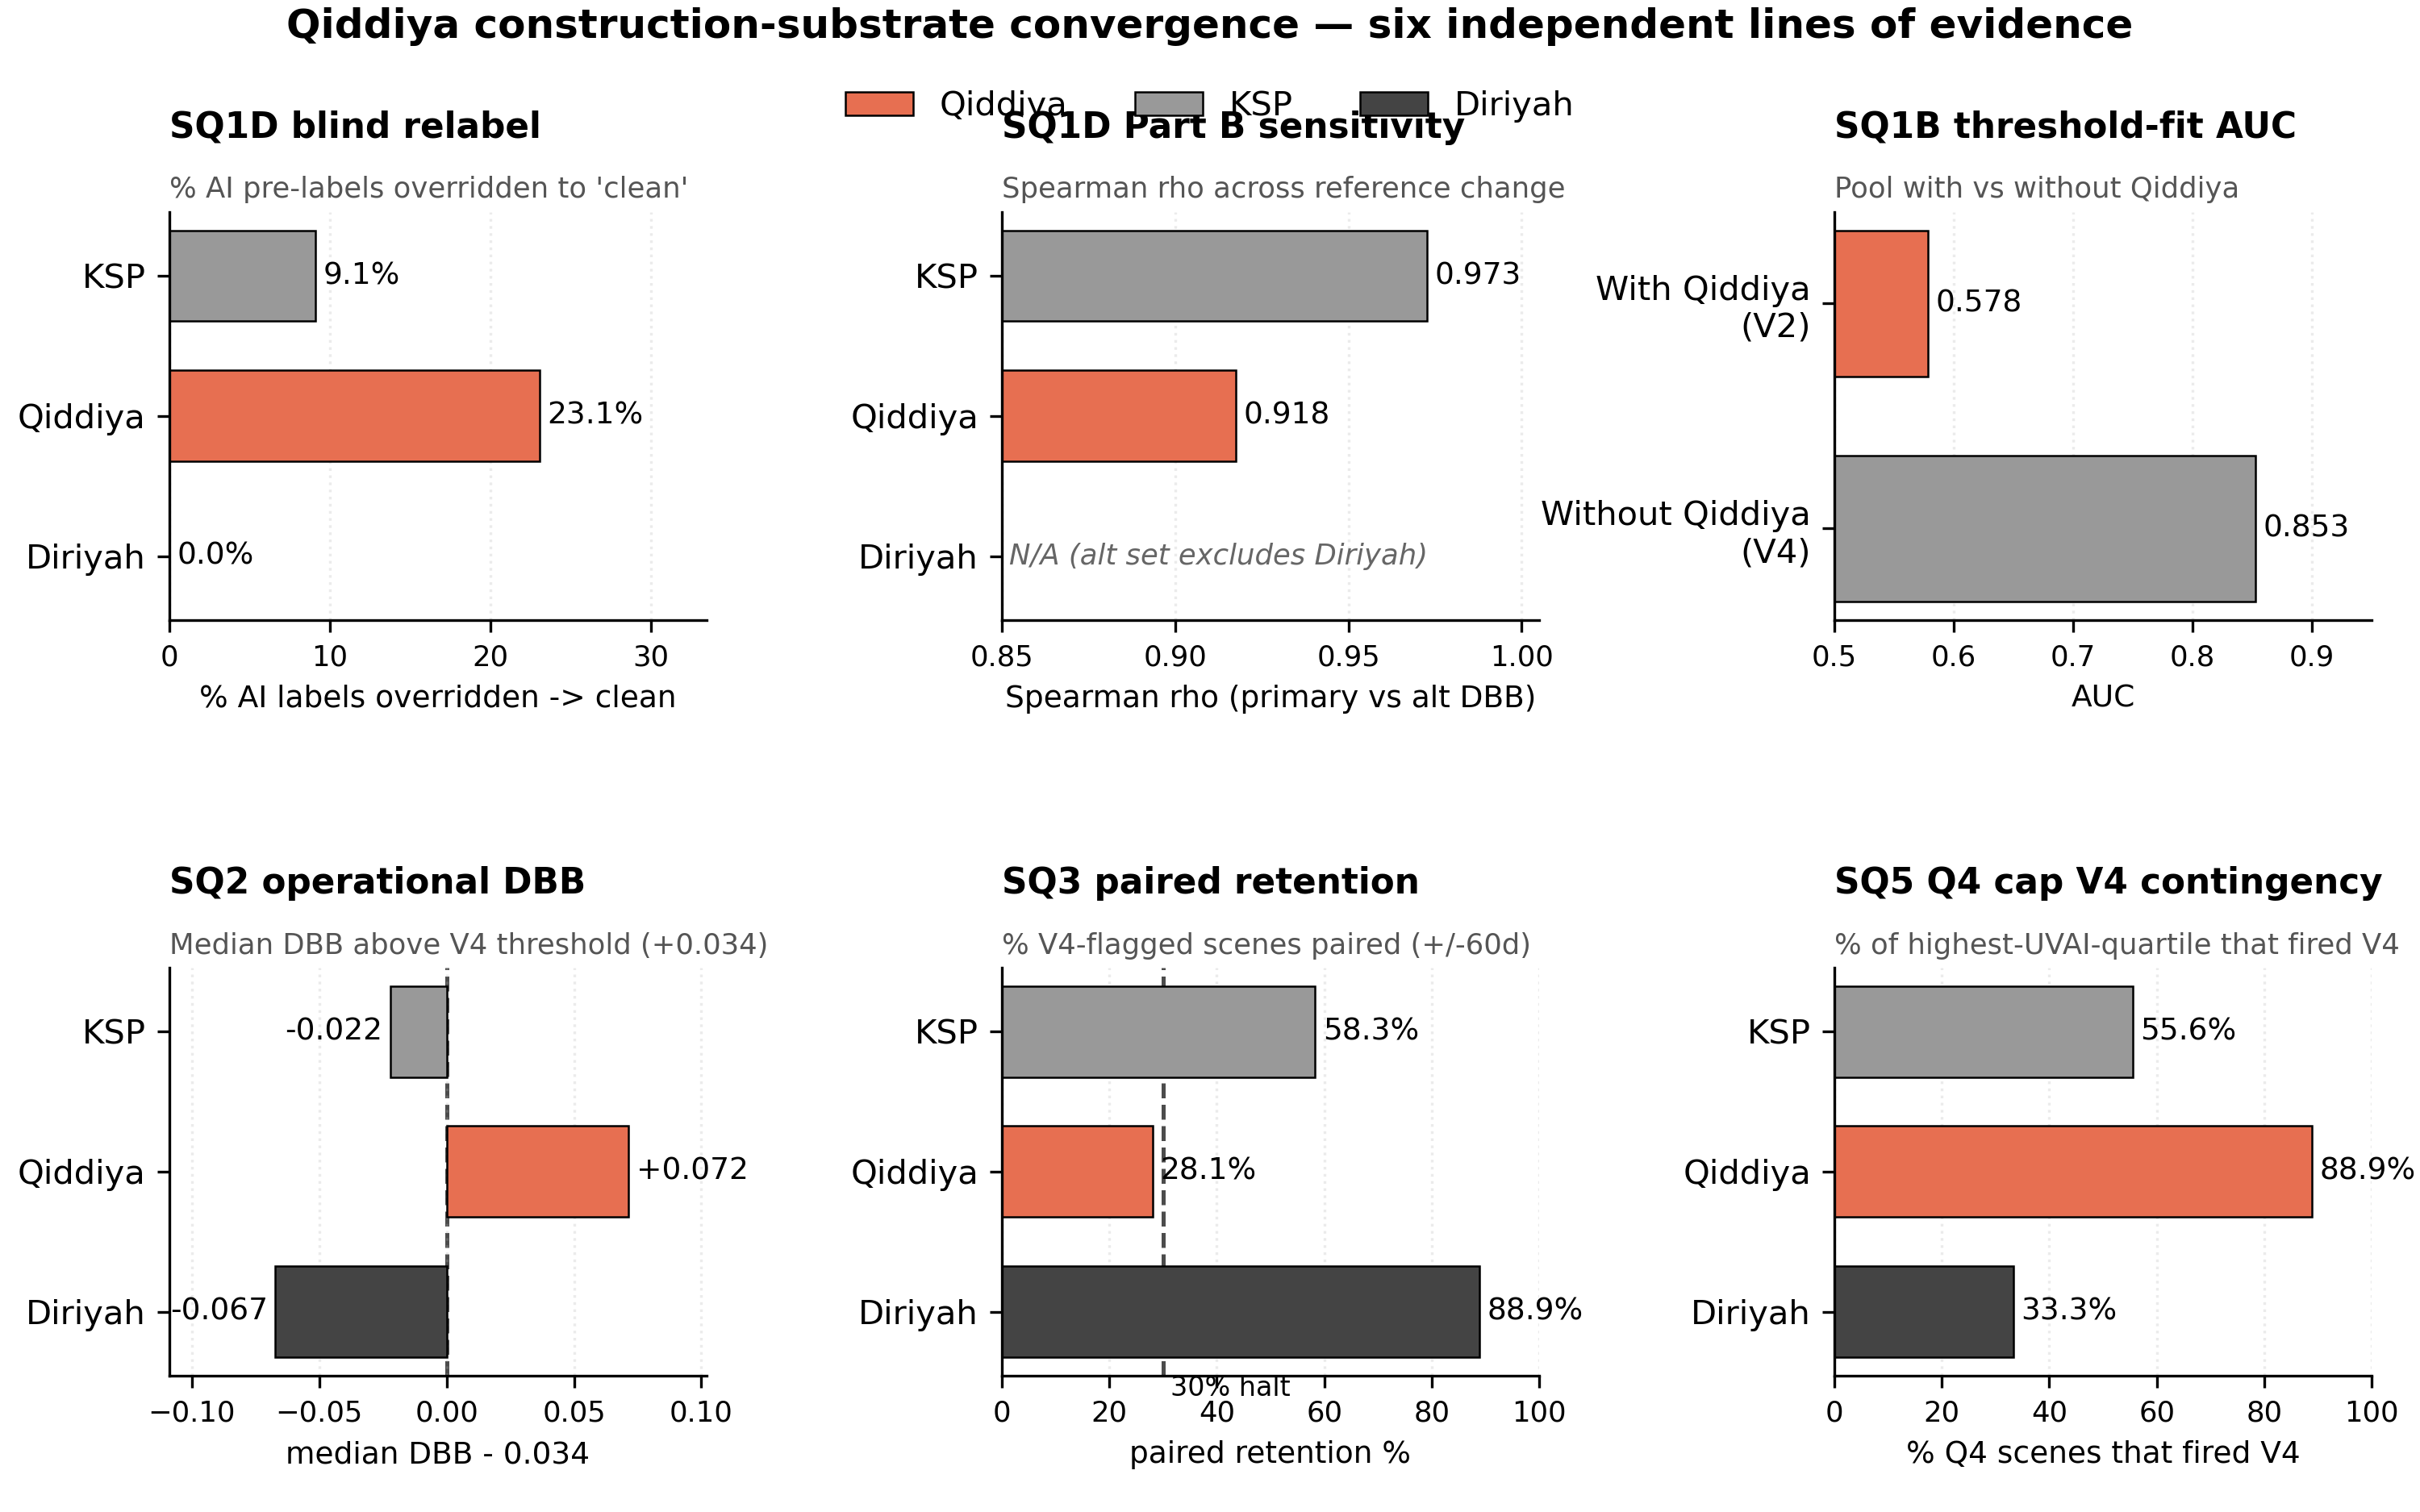
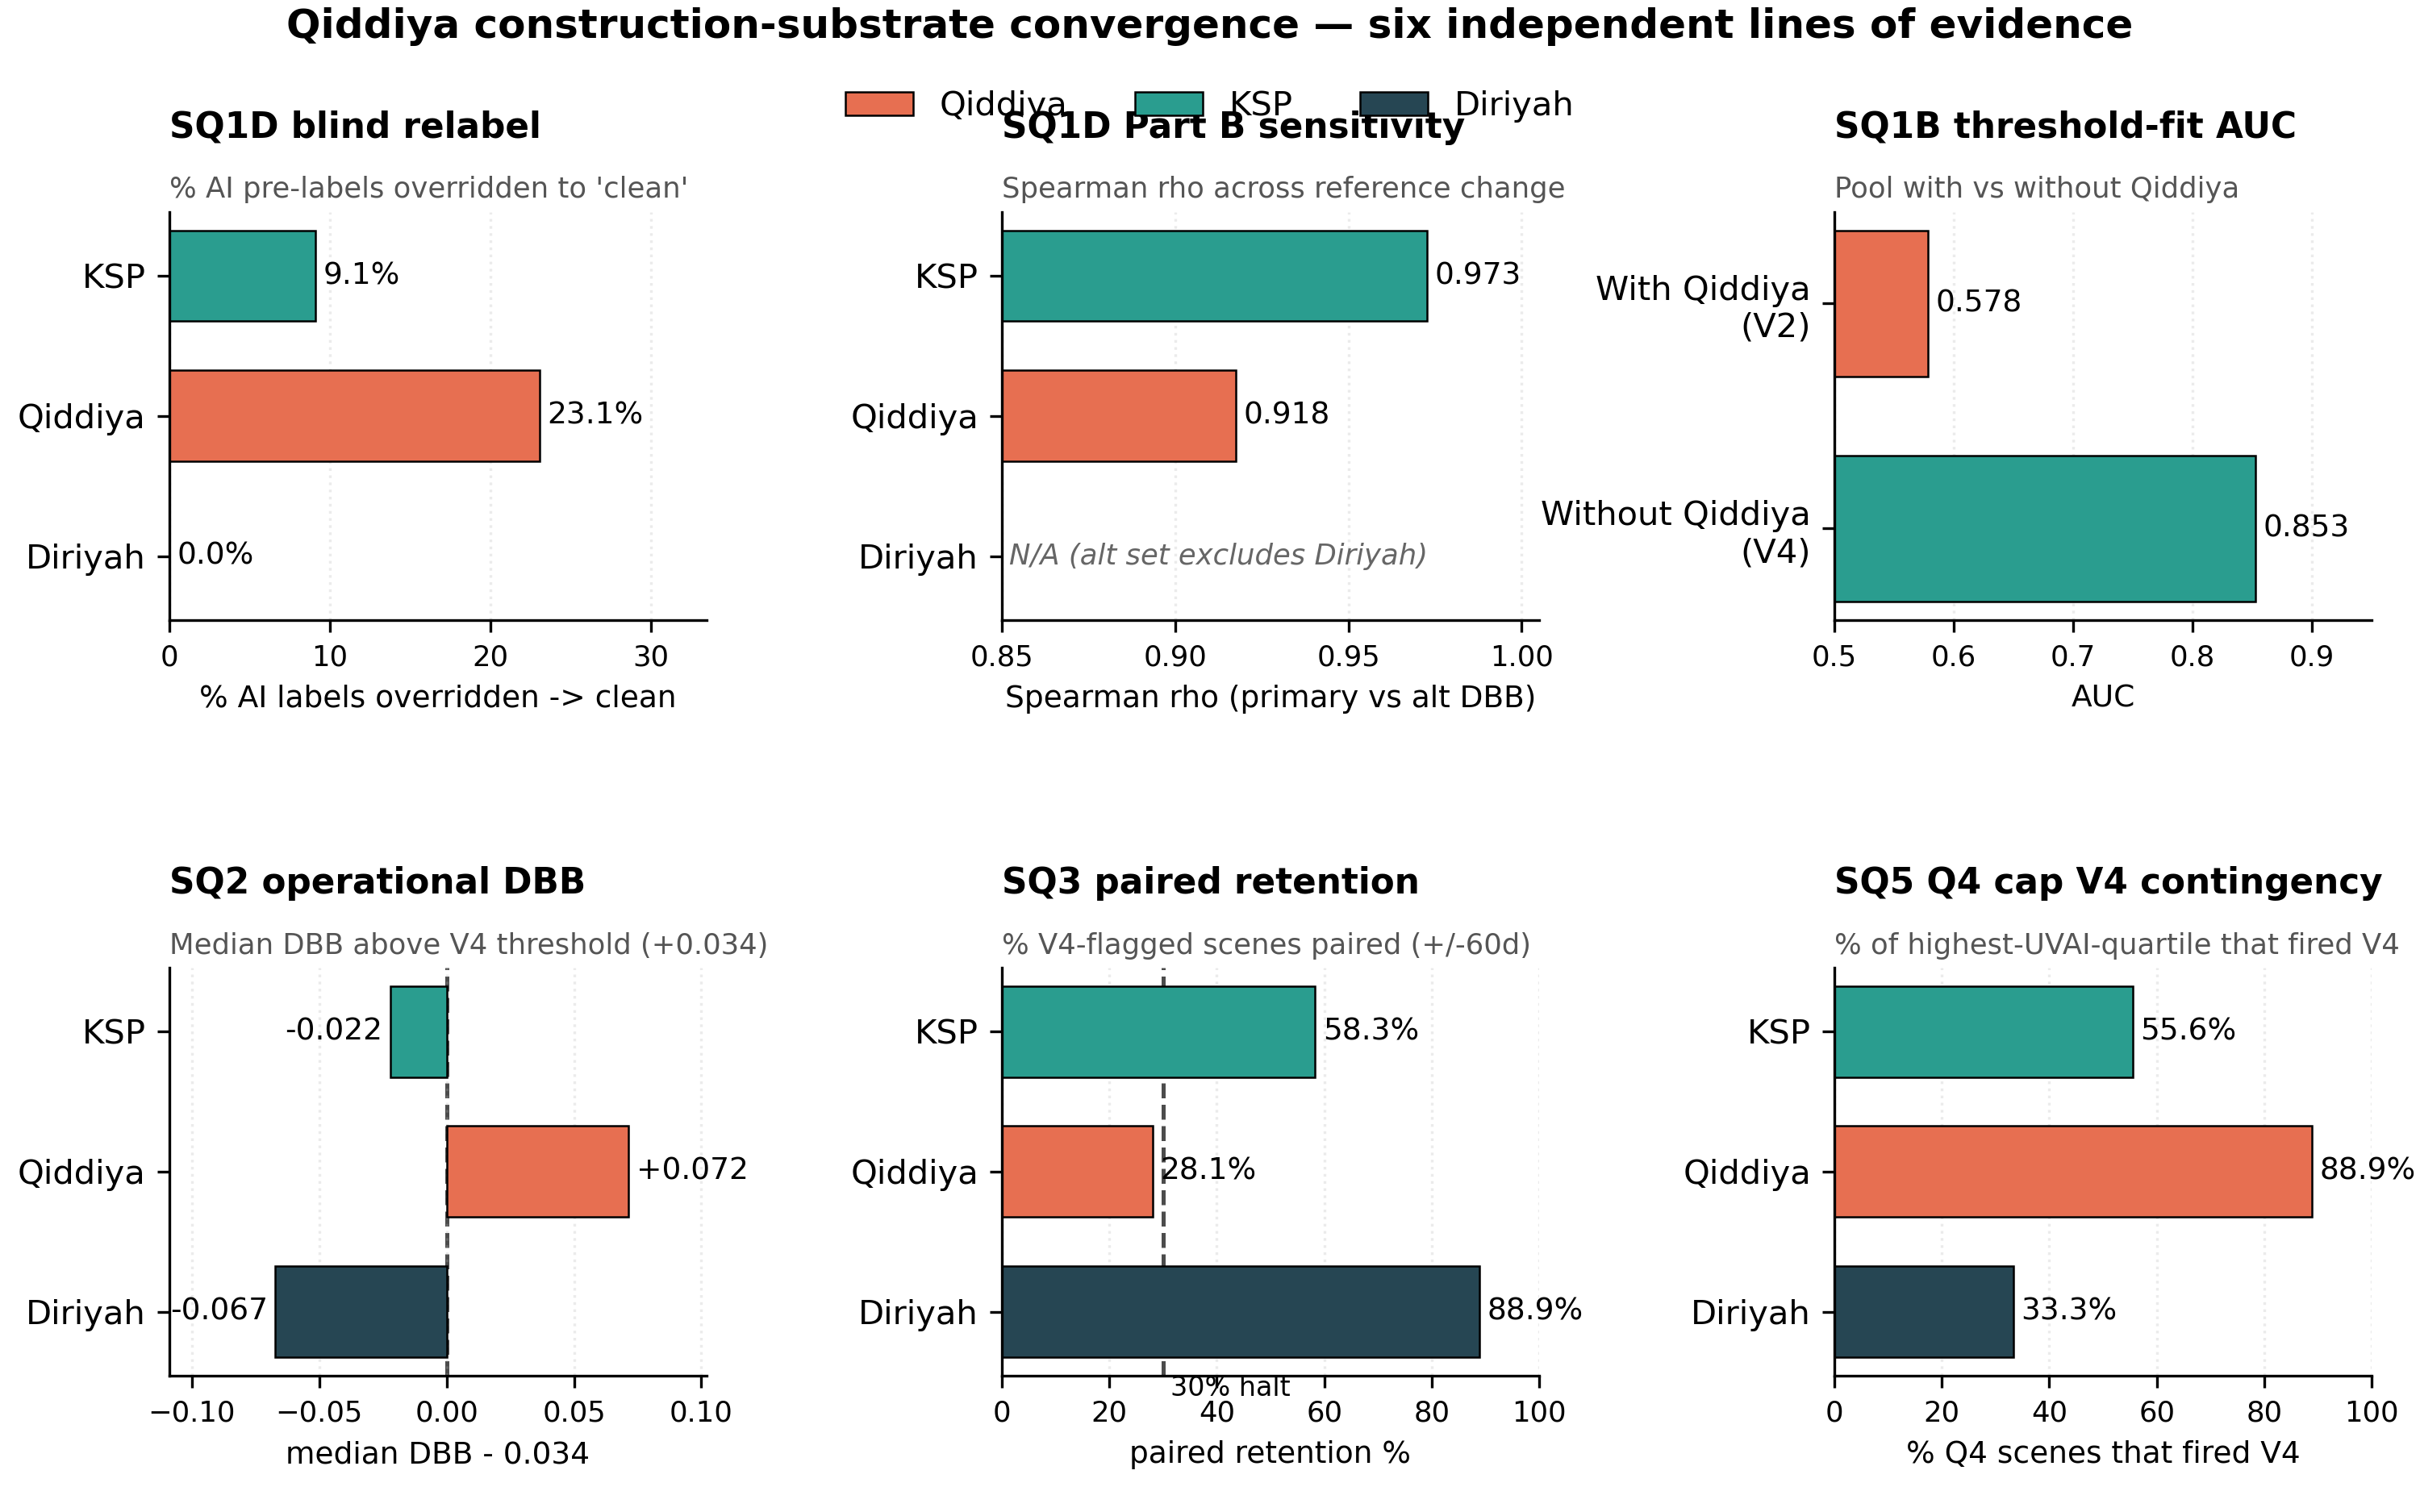
piece B §4: re-render convergence panel with project AOI palette
Replace per-figure grey overrides (#999/#444) with established piece B
palette: KSP #2a9d8f, Qiddiya #e76f51, Diriyah #264653 (matches
sq8_summary.py and the rest of piece B's figures). Warm-vs-cool contrast
(orange vs teal+navy) carries the convergence story without losing the
visual emphasis on Qiddiya — Qiddiya remains at the extreme position
in all six panels.

Header note about per-figure-override removed.

diff --git a/research/dust-honesty/figures/qiddiya_convergence_panel.py b/research/dust-honesty/figures/qiddiya_convergence_panel.py
@@ -3,8 +3,10 @@ piece B §4: Qiddiya construction-substrate convergence panel.
 
 Six independent lines of evidence that the satellite-detected "atmospheric"
 signal at Qiddiya is dominated by construction-substrate confusion rather
-than by atmosphere. Qiddiya is rendered in warm orange against KSP/Diriyah
-in grey tones — Qiddiya sits at the extreme position in all six panels.
+than by atmosphere. Qiddiya is rendered in warm orange against KSP teal
+and Diriyah dark-navy (the project AOI palette per sq8_summary.py) —
+Qiddiya sits at the extreme position in all six panels and the warm-vs-cool
+contrast carries the convergence story.
 
 Panels (2x3, horizontal bars):
   P1 SQ1D blind relabel    : % AI pre-labels overridden to "clean"
@@ -24,9 +26,6 @@ Notes on data:
   "Toward clean" is strict: heavy_dust -> light_haze does NOT count.
 - P2: sq1d_dbb_faithful_alt.csv excluded Diriyah by design (Part B was
   per-AOI on KSP+Qiddiya only). Diriyah cell renders as N/A.
-- Per-figure palette override: AOI colors normally use the sq8 palette
-  (KSP #2a9d8f, Qiddiya #e76f51, Diriyah #264653). Here KSP and Diriyah
-  are rendered in greys so Qiddiya pops as the convergence story.
 
 Output: research/dust-honesty/figures/qiddiya_convergence_panel.png (300 dpi)
 """
@@ -53,9 +52,9 @@ AOI_LABEL = {
     "diriyah_gate":     "Diriyah",
 }
 COLOR = {
-    "king_salman_park": "#999999",
+    "king_salman_park": "#2a9d8f",
     "qiddiya_core":     "#e76f51",
-    "diriyah_gate":     "#444444",
+    "diriyah_gate":     "#264653",
 }
 
 V4_THRESHOLD = 0.034